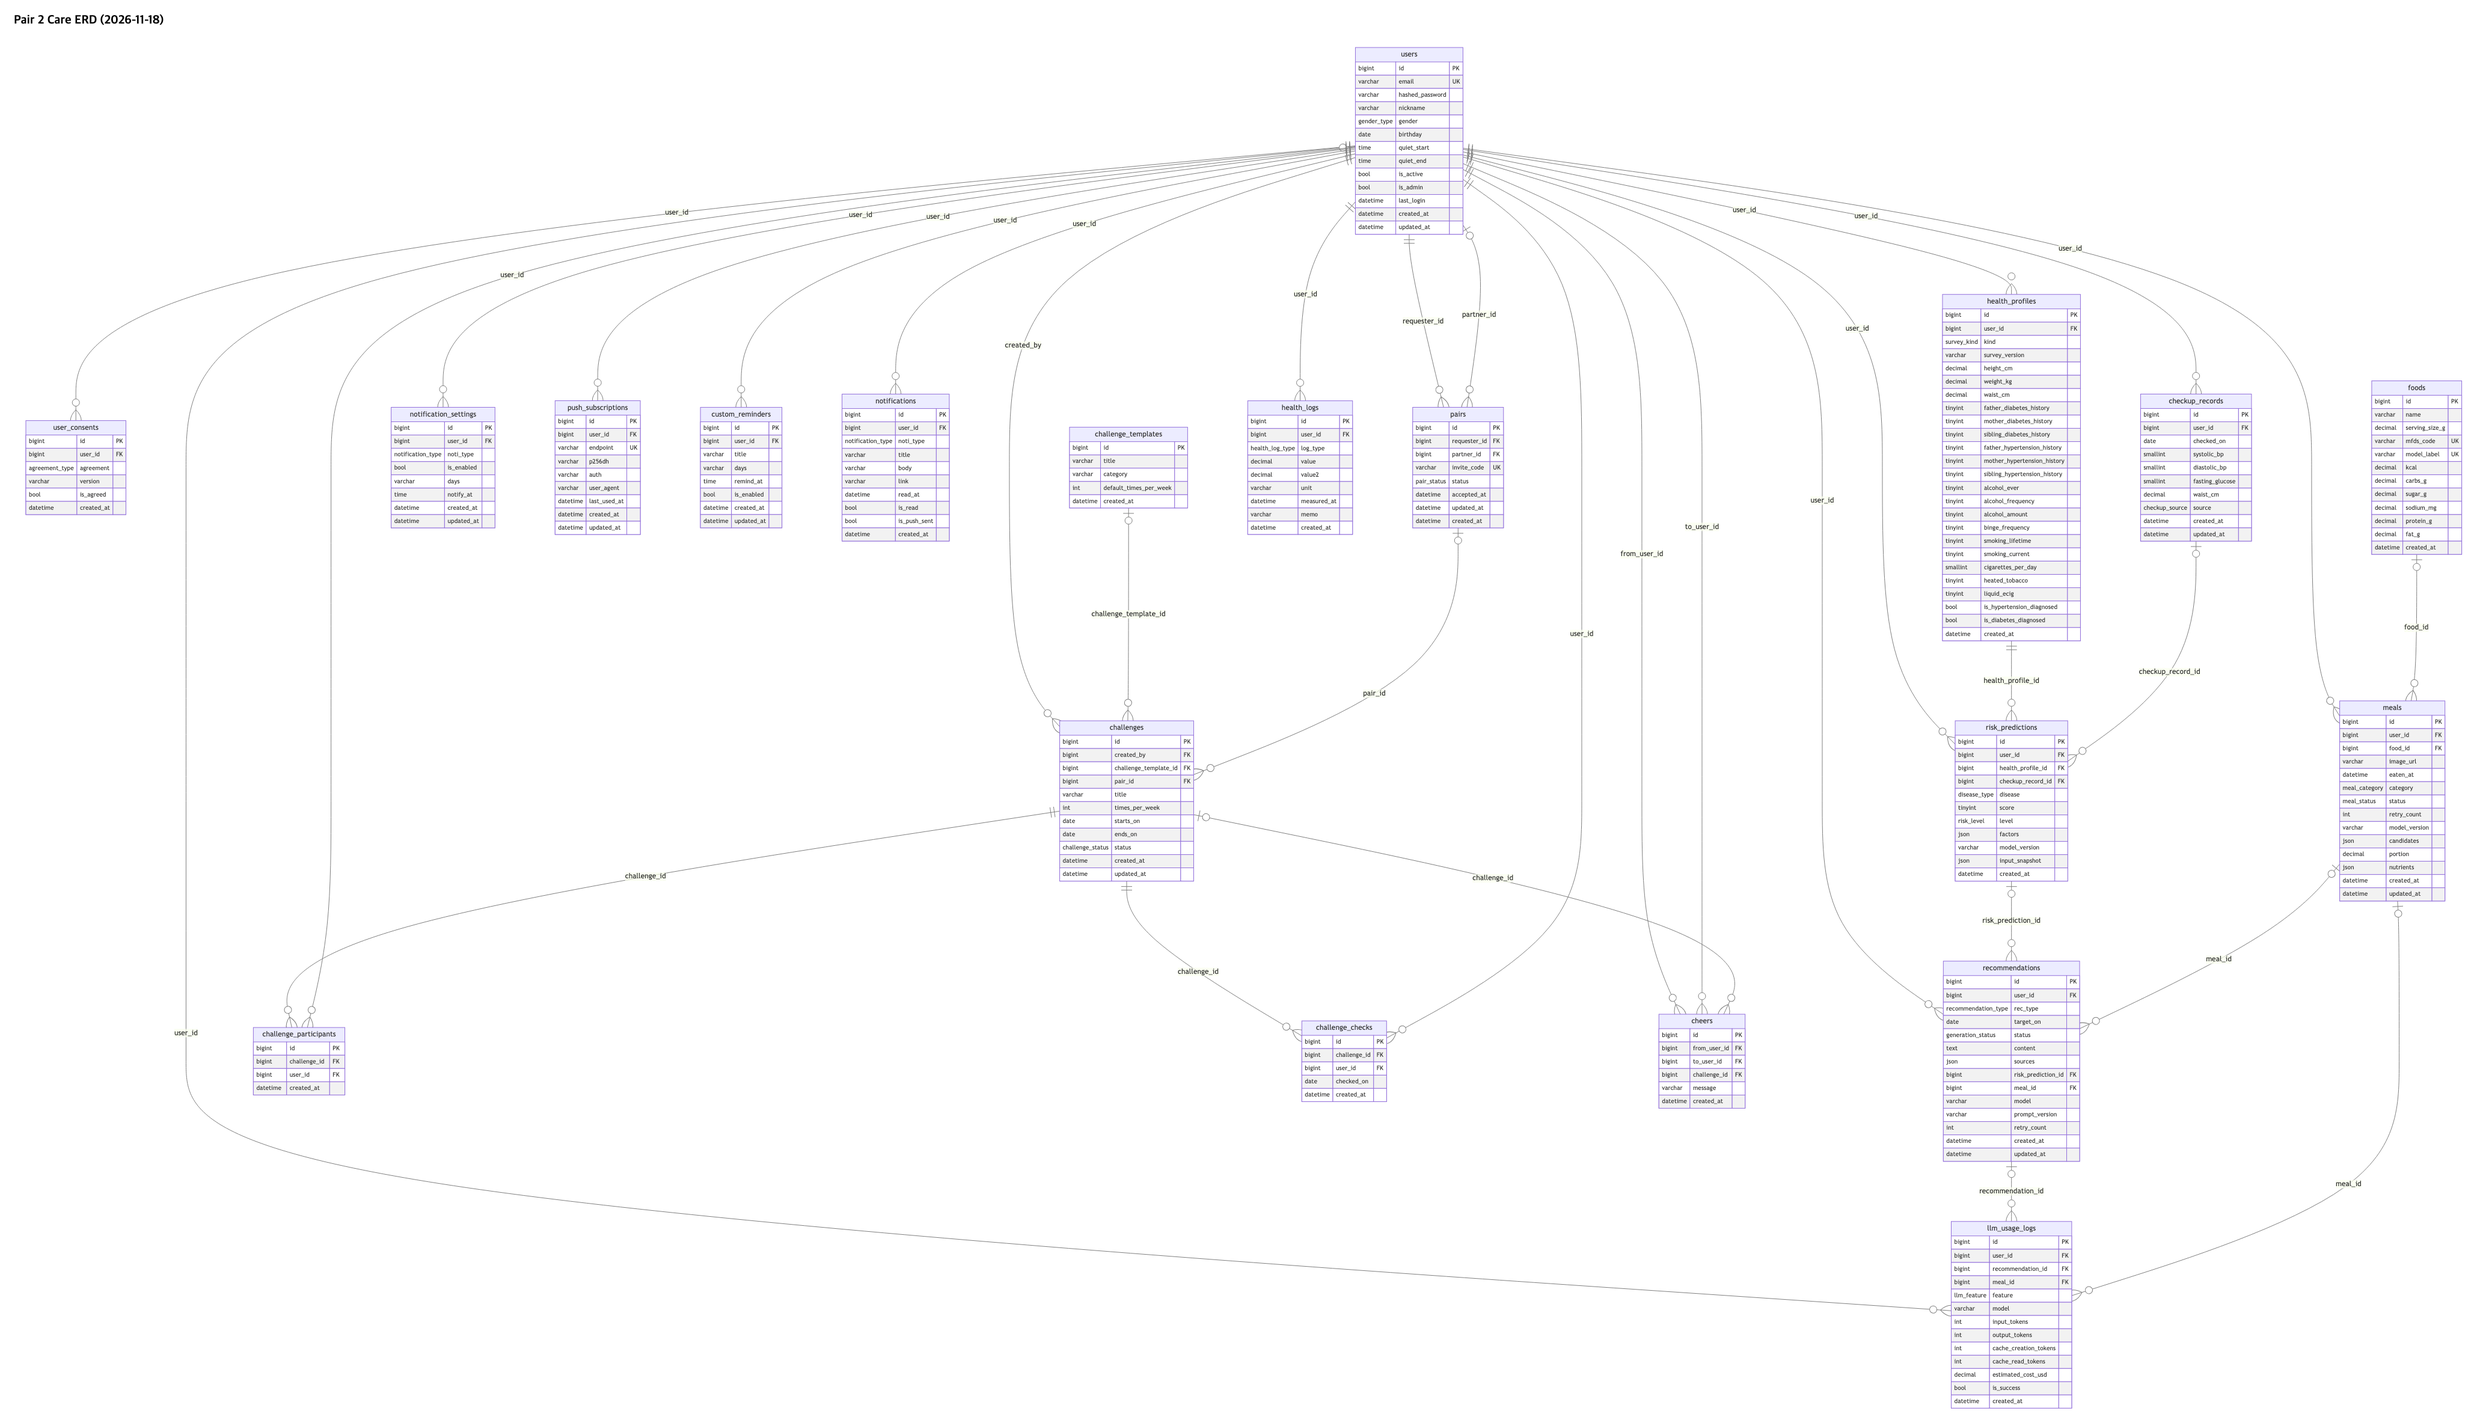
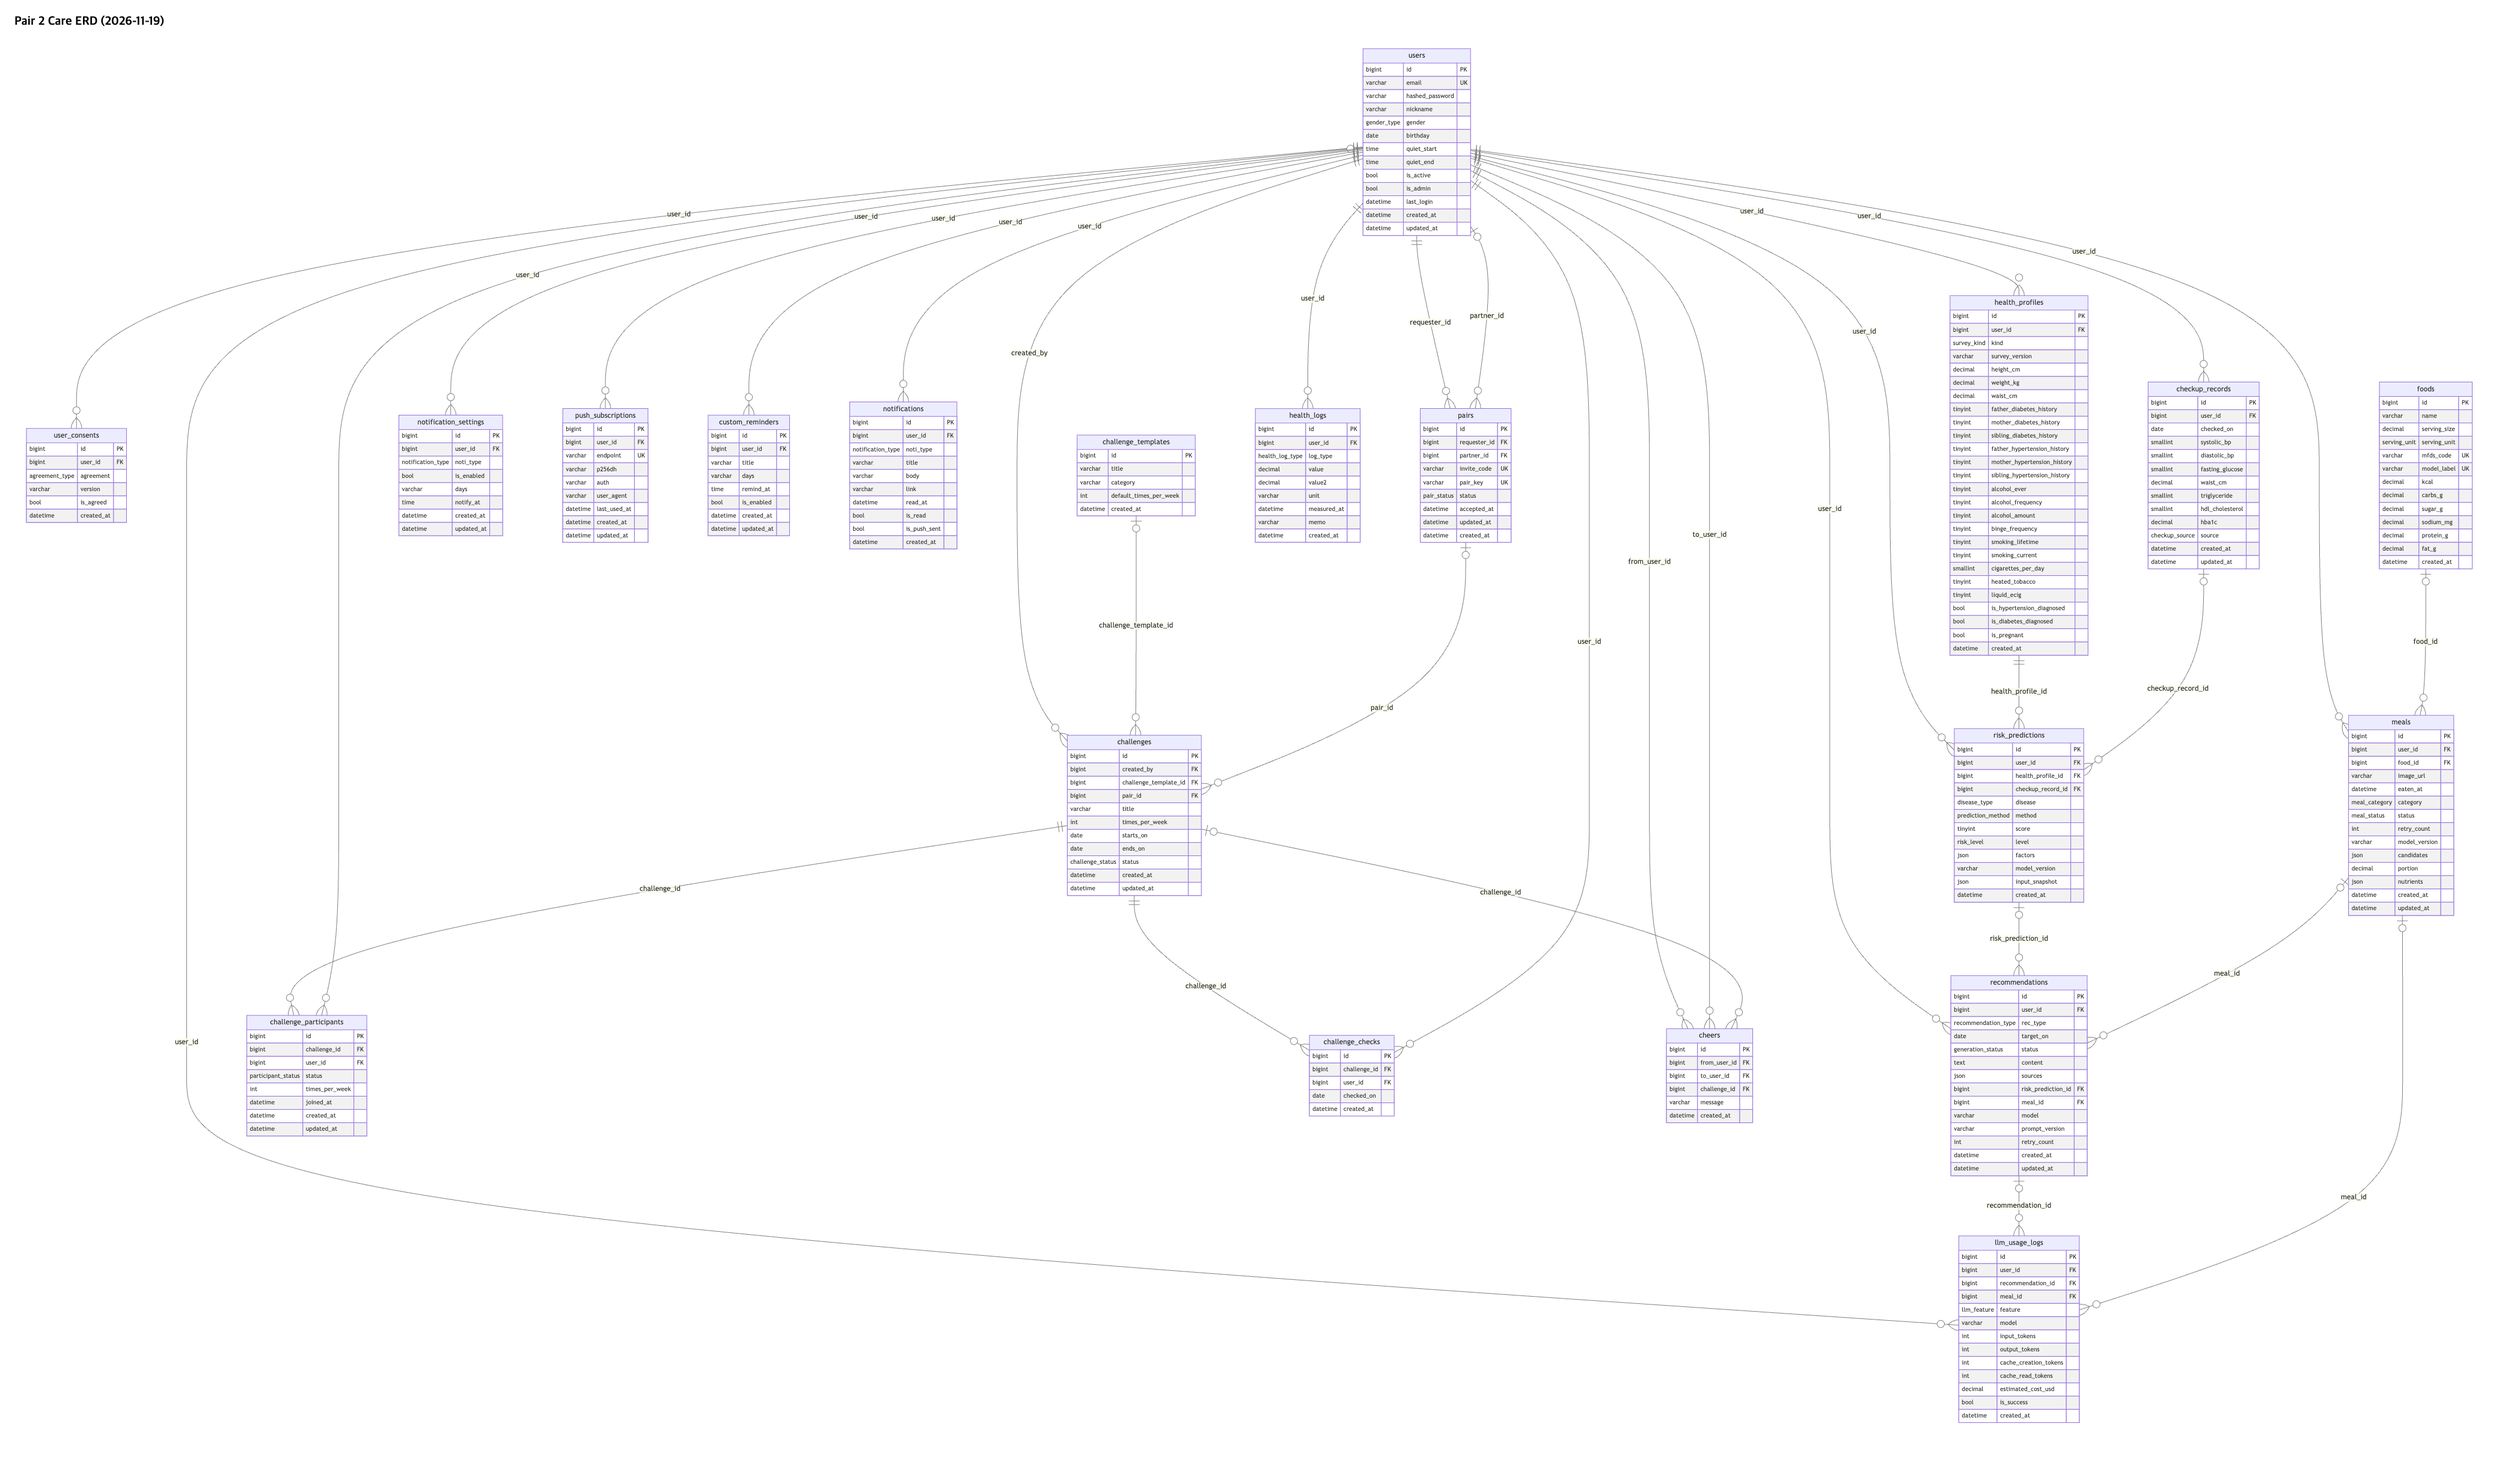
docs: ERD에 데이터팀 요청·API 리뷰 결정 반영
- health_profiles.is_pregnant, checkup_records 중성지방·HDL·당화혈색소
- risk_predictions.method(MODEL/CHECKUP_CRITERIA), score·model_version null 허용
- 대사증후군 판정은 저장 안 함, checkup_record_id ON DELETE SET NULL
- challenges.created_by = 현재 호스트, mode는 응답에서 계산, category 7종
- survey-mapping 13·16번 재설문 규칙·21번 임신 문항, erd.png 갱신

diff --git a/docs/erd.md b/docs/erd.md
@@ -26,19 +26,19 @@
 |---|---|---|---|
 | `users` | 회원 (템플릿 있음, `phone_number` 제거, 실명 대신 닉네임) | email, hashed_password, nickname, gender, birthday | USER-001~004 |
 | `user_consents` | 약관·개인정보·민감정보 동의 기록. 동의·철회할 때마다 행을 쌓고, 현재 상태는 종류별 최신 행 | user_id, agreement(TERMS/PRIVACY/SENSITIVE_HEALTH), version, is_agreed, created_at | USER-005 |
-| `health_profiles` | 생활습관 설문 응답. 재설문마다 새 행으로 쌓음 | user_id, kind, 신체·가족력·음주·흡연·진단 여부 20문항 (코드는 `survey-mapping.md`), created_at. 재설문에서 안 묻는 항목은 직전 값 복사(허리둘레는 빈칸), 상위 답이 바뀌면 하위 문항만 다시 물음 | PROF-001, PRED-004 |
-| `checkup_records` | 검진 수치. 집에서 잰 기록과 따로 둠 | user_id, systolic, diastolic, fasting_glucose, waist_cm, checked_on, source(manual/ocr) | PROF-002, PROF-003 |
+| `health_profiles` | 생활습관 설문 응답. 재설문마다 새 행으로 쌓음 | user_id, kind, 신체·가족력·음주·흡연·진단 여부 20문항 (코드는 `survey-mapping.md`), is_pregnant(여성만, 예면 예측 안 함), created_at. 재설문에서 안 묻는 항목은 직전 값 복사(허리둘레는 빈칸), 상위 답이 바뀌면 하위 문항만 다시 물음 | PROF-001, PRED-004 |
+| `checkup_records` | 검진 수치. 집에서 잰 기록과 따로 둠 | user_id, systolic, diastolic, fasting_glucose, waist_cm, triglyceride, hdl_cholesterol, hba1c(선택), checked_on, source(manual/ocr) | PROF-002, PROF-003 |
 
 ### 예측 — 김지연
 | 테이블 | 설명 | 주요 컬럼 (후보) | 관련 REQ |
 |---|---|---|---|
-| `risk_predictions` | 위험도 계산 결과. 추이 그래프의 원천 | user_id, health_profile_id, checkup_record_id(null 가능), disease(HYPERTENSION/DIABETES), score(0~100 정수), level(LOW/CAUTION/HIGH), factors(JSON 상위 3개), model_version(`diabetes_risk:v1`) | PRED-001~004, DASH-003 |
+| `risk_predictions` | 위험도 계산 결과. 추이 그래프의 원천 | user_id, health_profile_id, checkup_record_id(null 가능), disease(HYPERTENSION/DIABETES), method(MODEL/CHECKUP_CRITERIA), score(0~100 정수, 기준표 행은 null), level(LOW/CAUTION/HIGH), factors(JSON 상위 3개), model_version(`diabetes_risk:v1`, 기준표 행은 null) | PRED-001~004, DASH-003 |
 
 ### 챌린지·짝꿍 — 이지희
 | 테이블 | 설명 | 주요 컬럼 (후보) | 관련 REQ |
 |---|---|---|---|
 | `challenge_templates` | 기본 제공 챌린지 목록 (걷기·물·운동·스트레칭·절주·체중·금연, 11/19 체중·금연 추가) | title, category, default_times_per_week | CHAL-001 |
-| `challenges` | 만든 챌린지. 1:1 짝꿍 챌린지면 `pair_id` 있음, 1:N은 비움 | created_by, challenge_template_id, pair_id(null 가능), title, times_per_week, starts_on, ends_on, status | CHAL-001, PAIR-002 |
+| `challenges` | 만든 챌린지. 1:1 짝꿍 챌린지면 `pair_id` 있음, 1:N은 비움 | created_by(현재 호스트), challenge_template_id, pair_id(null 가능), title, times_per_week, starts_on, ends_on, status | CHAL-001, PAIR-002 |
 | `challenge_participants` | 챌린지 참여자 (개인 1명, 1:1 짝꿍 2명, 1:N 2~4명) | challenge_id, user_id, status(INVITED/JOINED/LEFT), times_per_week(개인 목표, null이면 챌린지 값), joined_at(수락 시각) | PAIR-002 |
 | `challenge_checks` | 날짜별 완료 체크. 연속 달성·달성률 계산 | challenge_id, user_id, checked_on (challenge_id+user_id+checked_on 유니크) | CHAL-002~003, PAIR-003 |
 | `pairs` | 짝꿍 관계 | requester_id, partner_id(null 가능), invite_code, pair_key(작은 id:큰 id, unique), status(PENDING/ACCEPTED/ENDED), accepted_at | PAIR-001 |
@@ -133,6 +133,14 @@ erDiagram
 ## 5. 정할 것
 - [x] `users.phone_number` → 뺌 (11/17). 비밀번호 재설정 토큰은 테이블 대신 Redis에 만료 시간으로 두는 안
 - [x] `risk_predictions.disease` → 고혈압·당뇨 각각 (11/18 데이터팀). 대사증후군은 검진 수치 기준표로 판정
+- [x] 데이터팀 ERD 요청 반영 (11/19 장성은)
+  - `health_profiles.is_pregnant`: 여성만, "예"면 두 질환 모두 예측 안 함
+  - `checkup_records`: 중성지방·HDL(대사증후군 판정), 당화혈색소(선택) 추가. 키·몸무게·총콜레스테롤은 받지 않음
+  - `risk_predictions.method`: 검진 수치가 있으면 한 질환에 모델 행(`MODEL`) + 기준표 행(`CHECKUP_CRITERIA`). 기준표 행은 `score`·`model_version`이 null, 추이 그래프는 모델 행만
+  - 대사증후군 판정은 저장하지 않고 `checkup_records`로 매번 계산 (추이가 없어서 이력 불필요, 기준표 버전은 코드 상수)
+  - "혈압약·당뇨약 복용"은 진단 여부 문항으로 대신, 이상지질혈증 진단 문항은 12/4 이후 검토
+- [x] 검진 기록 삭제 시 `risk_predictions.checkup_record_id`는 null (ON DELETE SET NULL, 당시 값은 `input_snapshot`에 남음)
+- [ ] `CHECKUP_CRITERIA` 행의 `input_snapshot`·`factors` — 제안: `input_snapshot`에 판정에 쓴 검진 수치, `factors`는 null (데이터팀 확인)
 - [x] 짝꿍은 한 사람당 여러 명 가능 (11/17). 같은 두 사람 사이 짝꿍은 하나만
 - [x] 짝꿍 해제 시 진행 중인 짝꿍 챌린지 처리 (11/19) — 1:1은 해제할 때 "종료 / 개인 챌린지로 계속" 중 선택, 1:N은 한 명이 나가도(`LEFT`) 나머지는 계속
 - [x] 같은 두 사람 짝꿍 중복 방지 (11/19) — `pairs.pair_key` unique로 DB에서 막음
@@ -144,6 +152,9 @@ erDiagram
 - 미션은 같은 템플릿 1개, 횟수는 각자 (`challenge_participants.times_per_week`)
 - 공동 진행률: 함께 채운 칸 ÷ 전체 칸. 개인 목표를 넘긴 체크는 칸에 더하지 않음
 - 화면: "이번 주 N회·누적"을 먼저, 연속 일수는 아래
+- 호스트(owner) = `challenges.created_by` ("현재 호스트" 뜻). 1:N에서 호스트가 나가면 고른 사람(안 고르면 먼저 들어온 사람)으로 바뀜, 1:1은 호스트를 화면에 표시하지 않음 (11/19 API 리뷰)
+- 혼자/1:1/1:N(`mode`)은 저장하지 않고 응답에서 계산 (`pair_id` 있으면 PAIR, 남은 참여자 2명 이상 GROUP, 그 외 SOLO)
+- `challenge_templates.category`: 대문자 고정 7종 `WALK`·`WATER`·`EXERCISE`·`STRETCH`·`LESS_ALCOHOL`·`WEIGHT`·`NO_SMOKING`
 - [x] `challenge_checks` 중복 기준 — (챌린지, 사용자, 날짜) 유니크. 다른 챌린지는 같은 날 각각 체크 가능 (11/17)
 - [x] `health_logs`는 한 테이블 + `log_type` enum. 주간 기록 6종도 enum 추가로 (11/18 이지희)
 - [ ] 이미지 저장 위치 — 우선 `meals.image_url` 문자열로 두고 S3 답변 후 결정 (11/17, 여현지 동의)

diff --git a/docs/survey-mapping.md b/docs/survey-mapping.md
@@ -25,14 +25,15 @@
 | 10 | 지금까지 술을 마셔 본 적이 있나요? | 없다 / 있다 | BD1 | 1 / 2 | "없다"면 11~13 건너뜀 → BD1_11 = 8, BD2_1 = 8, BD2_31 = 8 | 필수 | 안 씀 (건너뛰기용) | 물음 |
 | 11 | 최근 1년간 술을 얼마나 자주 마셨나요? | 전혀 마시지 않았다 / 월 1회 미만 / 월 1회 정도 / 월 2~4회 / 주 2~3회 / 주 4회 이상 | BD1_11 | 1 / 2 / 3 / 4 / 5 / 6 | "전혀"면 12~13 건너뜀 → BD2_1 = 8, BD2_31 = 8 | 필수 | 사용 | 물음 |
 | 12 | 술 마시는 날 한 번에 몇 잔 정도 마시나요? | 1~2잔 / 3~4잔 / 5~6잔 / 7~9잔 / 10잔 이상 | BD2_1 | 1 / 2 / 3 / 4 / 5 | — | 필수 (해당자) | 사용 | 물음 |
-| 13 | 한 번의 술자리에서 남자 소주 7잔(맥주 5캔)·여자 5잔(맥주 3캔) 이상 마시는 날이 얼마나 있나요? | 전혀 없음 / 월 1회 미만 / 월 1회 정도 / 주 1회 정도 / 거의 매일 | BD2_31 | 1 / 2 / 3 / 4 / 5 | 성별에 맞는 기준만 화면에 표시 | 필수 (해당자) | 안 씀 (기록용) | 안 물음 |
+| 13 | 한 번의 술자리에서 남자 소주 7잔(맥주 5캔)·여자 5잔(맥주 3캔) 이상 마시는 날이 얼마나 있나요? | 전혀 없음 / 월 1회 미만 / 월 1회 정도 / 주 1회 정도 / 거의 매일 | BD2_31 | 1 / 2 / 3 / 4 / 5 | 성별에 맞는 기준만 화면에 표시 | 필수 (해당자) | 안 씀 (기록용) | 상위 답이 바뀌어 새로 해당되면 물음, 계속 해당이면 직전 값 복사 |
 | 14 | 지금까지 담배(궐련)를 얼마나 피웠나요? | 피운 적 없음 / 5갑(100개비) 미만 / 5갑 이상 | BS1_1 | 3 / 1 / 2 | "피운 적 없음"이면 15~16 건너뜀 → BS3_1 = 8, BS3_2 = 888 | 필수 | 안 씀 (건너뛰기용) | 물음 |
 | 15 | 지금 담배(궐련)를 피우나요? | 매일 / 가끔 / 과거엔 피웠으나 지금은 안 피움 | BS3_1 | 1 / 2 / 3 | "지금은 안 피움"이면 16 건너뜀 → BS3_2 = 888 | 필수 (해당자) | 사용 | 물음 |
-| 16 | 하루 평균 몇 개비 피우나요? | 숫자 (개비) | BS3_2 | 그대로 (1~60 범위 확인) | 매일·가끔 피우는 사람만 | 필수 (해당자) | 안 씀 (기록용) | 안 물음 |
+| 16 | 하루 평균 몇 개비 피우나요? | 숫자 (개비) | BS3_2 | 그대로 (1~60 범위 확인) | 매일·가끔 피우는 사람만 | 필수 (해당자) | 안 씀 (기록용) | 상위 답이 바뀌어 새로 해당되면 물음, 계속 해당이면 직전 값 복사 |
 | 17 | 궐련형 전자담배를 사용하나요? | 사용한 적 없음 / 매일 / 가끔 / 과거엔 썼으나 지금은 안 씀 | BS12_47 | 8 / 1 / 2 / 3 | — | 필수 | 안 씀 (기록용) | 안 물음 |
 | 18 | 액상형 전자담배를 사용하나요? | 사용한 적 없음 / 지금 사용함 / 지금은 안 씀 | BS12_2 | 8 / 1 / 2 | — | 필수 | 안 씀 (기록용) | 안 물음 |
 | 19 | 고혈압 진단을 받은 적 있나요? **(팀 제안 단계)** | 예 / 아니오 | — (우리 문항) | 불리언 | — | 필수 | 안 씀 ("예"면 고혈압 예측 안 함) | 물음 |
 | 20 | 당뇨 진단을 받은 적 있나요? **(팀 제안 단계)** | 예 / 아니오 | — (우리 문항) | 불리언 | — | 필수 | 안 씀 ("예"면 당뇨 예측 안 함) | 물음 |
+| 21 | 지금 임신 중인가요? (여성만) | 예 / 아니오 | — (우리 문항) | 불리언 / 남성은 빈칸 | 남성은 묻지 않음 | 필수 (여성) | 안 씀 ("예"면 두 질환 모두 예측 안 함, 모델이 임신부를 빼고 학습) | 물음 |
 
 ## 건너뛰기 저장 요약
 | 상황 | 건너뛰는 문항 | 저장 코드 |
